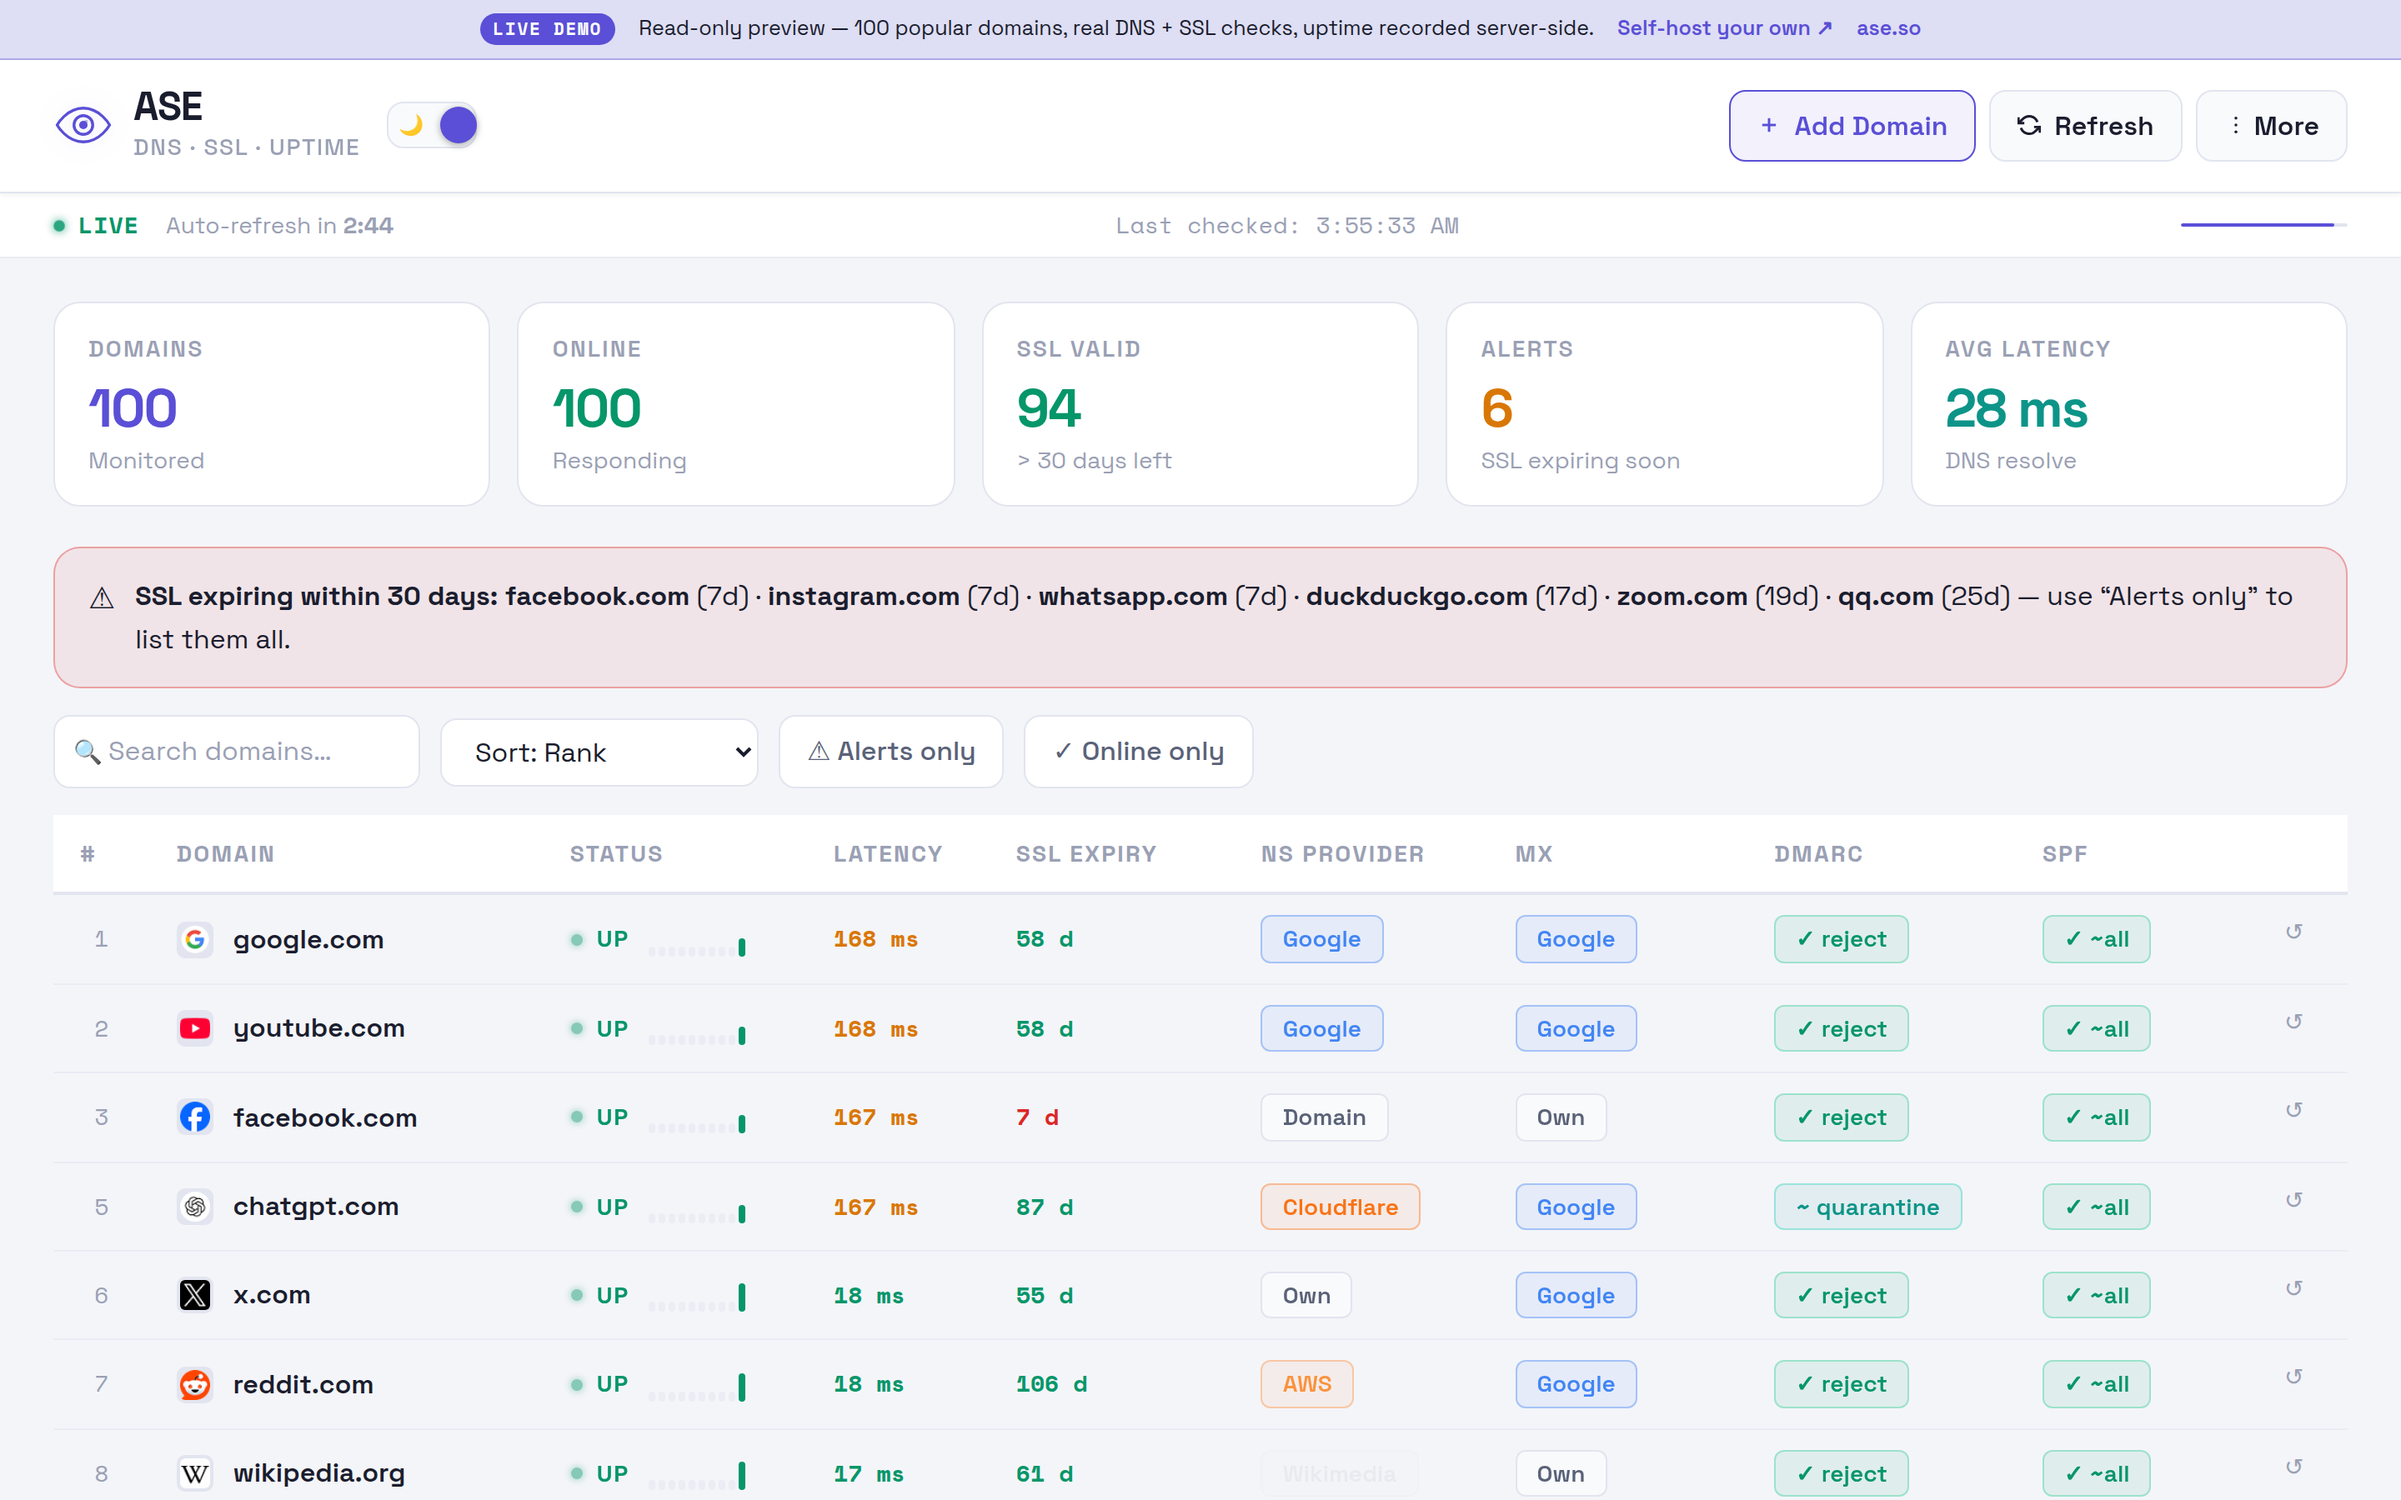
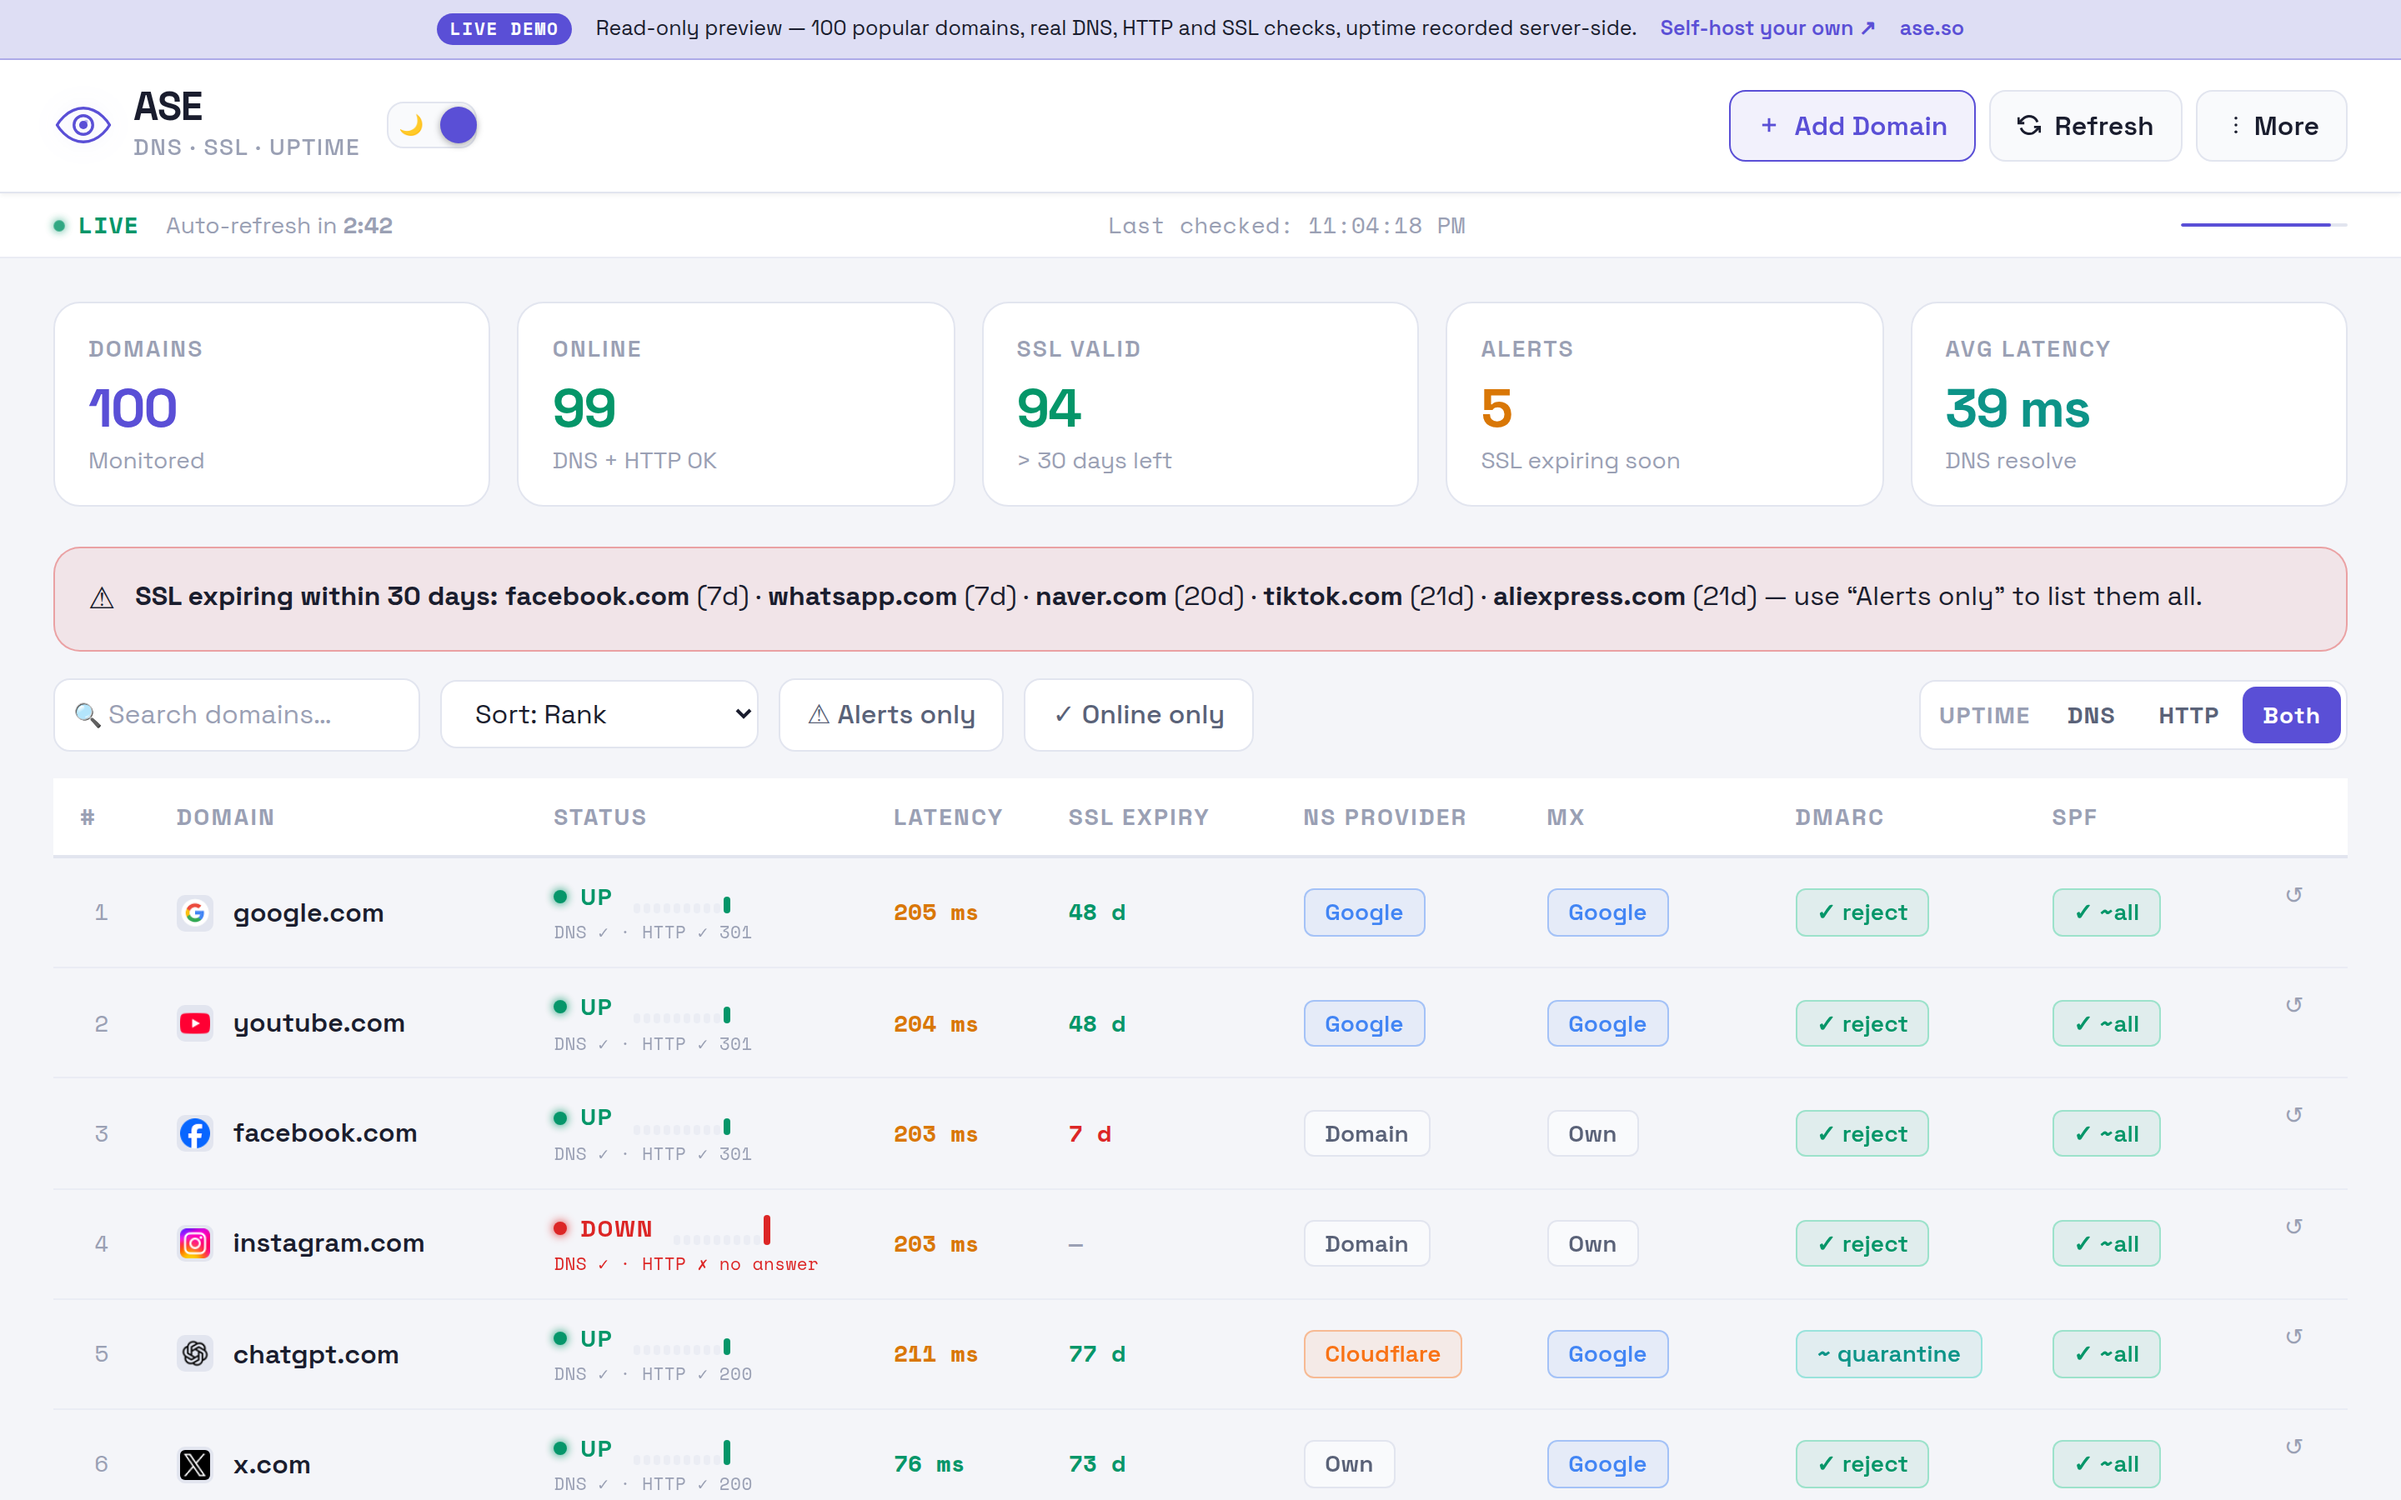
docs: screenshots for the v6.2.0 uptime method, built from the live HTTP and SSL results

diff --git a/README.md b/README.md
@@ -64,8 +64,11 @@
 
 <table>
   <tr>
-    <td width="50%"><img src="docs/img/dashboard-dark.png" alt="Dark mode dashboard"><br><sub><b>Dark mode.</b> Same data, easier on the eyes. The banner lists the six most urgent certificates.</sub></td>
+    <td width="50%"><img src="docs/img/dashboard-dark.png" alt="Dark mode dashboard"><br><sub><b>Dark mode.</b> Same data, easier on the eyes. Each status shows both signals, for example "DNS ✓ · HTTP ✓ 301".</sub></td>
     <td width="50%"><img src="docs/img/tooltip.png" alt="Tooltip showing the raw name server records for baidu.com"><br><sub><b>Raw records on hover.</b> Every NS, MX, DMARC and SPF badge explains itself with the underlying DNS record.</sub></td>
+  </tr>
+  <tr>
+    <td colspan="2"><img src="docs/img/settings.png" alt="Settings dialog with the uptime method: DNS only, HTTP only, or both"><br><sub><b>Uptime method.</b> One setting for all domains: DNS (A record) only, HTTP only, or both (default). The same choice is available as the DNS / HTTP / Both switch above the table.</sub></td>
   </tr>
   <tr>
     <td width="50%" align="center"><img src="docs/img/dashboard-mobile.png" alt="Mobile dashboard" width="300"><br><sub><b>Mobile first.</b> Stat cards and the table reflow for phones.</sub></td>
@@ -288,7 +291,7 @@ Things to know:
 - Uptime history (`uptime.json`) records whichever method was active when each check ran, so percentages mix methods if you switch.
 - Without PHP (static mode) the browser can only test reachability with an opaque `no-cors` request, which cannot see status codes. The status line then shows "reachable".
 - While HTTP probes are still running, the status line shows "HTTP …" for the rows not yet answered.
-- The HTTP check measures your server's view of the site, not what visitors in other regions see.
+- The HTTP check measures your server's view of the site, not what visitors in other regions see. Example: on the public demo, `instagram.com` (the apex name) does not complete a TLS handshake from the hosting network, so it shows "DNS ✓ · HTTP ✗ no answer" and counts as DOWN in the default mode, while `www.instagram.com` answers. Switch to DNS only if that is not what you want to measure.
 
 ---
 
